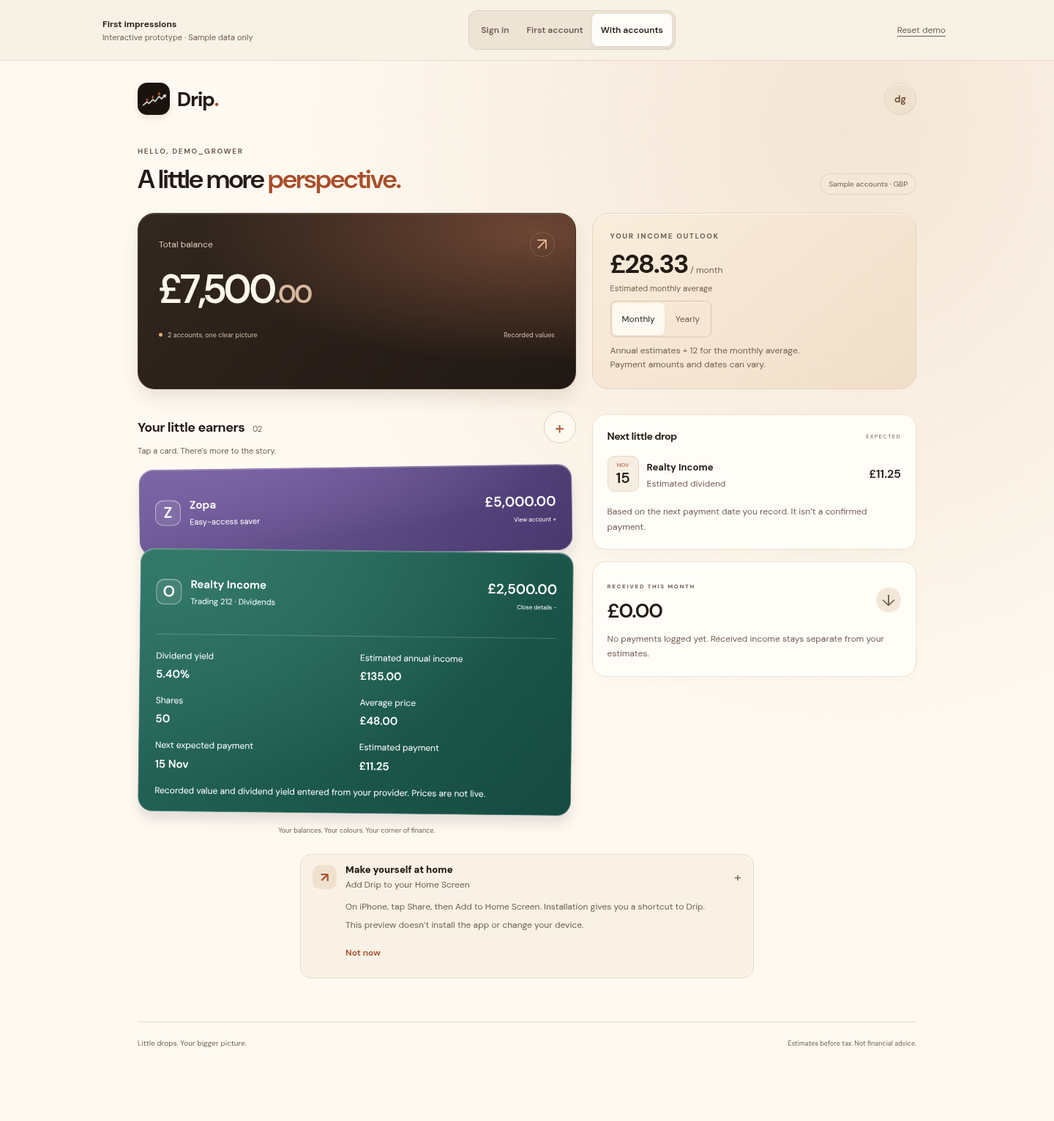
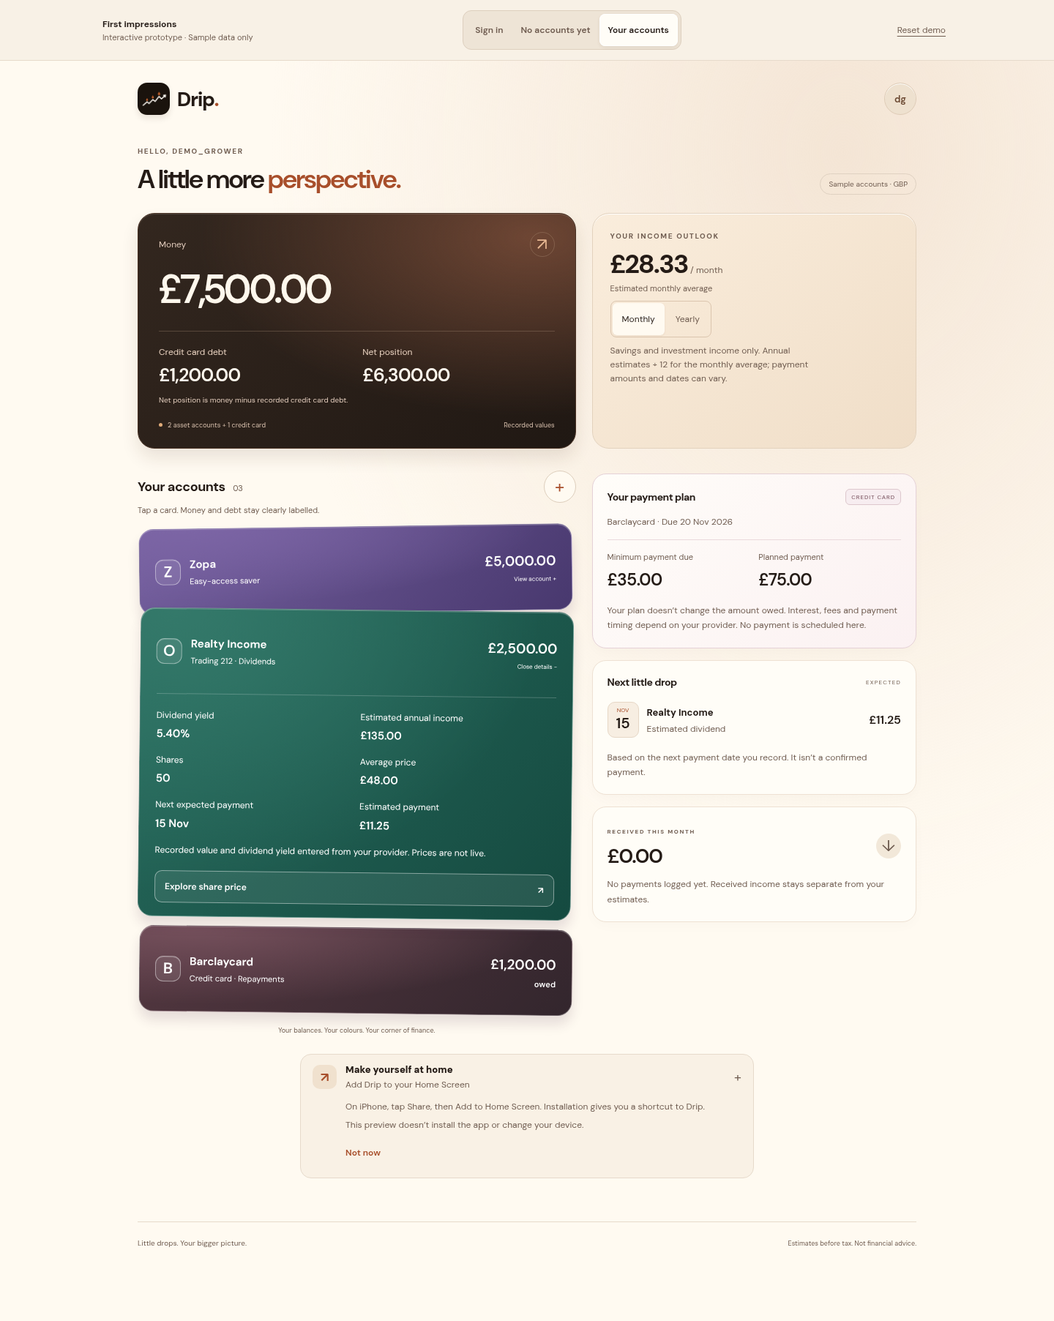
docs: explain prototype decisions and verify real stock charts

diff --git a/docs/screenshots/first-impression/stock-prices.md b/docs/screenshots/first-impression/stock-prices.md
@@ -1,0 +1,61 @@
+# Dividend share-price prototype
+
+The goal is to let someone explore a recorded dividend stock's price history before deciding whether to buy more shares. The prototype opens Realty Income's **NYSE:O** chart alongside a clearly separate sample holding. It does not trade, recommend a purchase or change recorded balances.
+
+At `/prototype/welcome`, choose **Your accounts → Realty Income → Explore share price**. Choose **1M**, **3M** or **1Y**, then **Load TradingView chart**. A third-party connection starts only after that action. **Hide chart** removes the frame; **Back to accounts** returns to the holding. **Open chart on TradingView** is available if an embedded chart cannot load.
+
+## Choice and reasons
+
+**Use TradingView's free embedded chart for this shared Preview.** It needs no API key and is offered for website embedding. Keep its branding/attribution and link intact. This is a display integration, not a raw-price API or an automatic portfolio-valuation feed.
+
+| Option | Free allowance / capability | What it means for Drip | Primary source |
+| --- | --- | --- | --- |
+| TradingView widget | Free hosted interactive chart; available data depends on market. | Suitable for a chart sample without managing an API key. NYSE widget data is listed as delayed Cboe One data; do not promise Trading212 execution prices or a consolidated real-time feed. | [Chart](https://www.tradingview.com/widget-docs/widgets/charts/advanced-chart/), [NYSE data level](https://www.tradingview.com/widget-docs/markets/north-america/), [data FAQ](https://www.tradingview.com/widget-docs/faq/data/) |
+| Massive Stocks Basic | $0; 5 calls/minute; 2 years of end-of-day US history. | A possible owner-only personal API experiment. The vendor explicitly requires Business once another person sees it, including private testers/staging. Free Basic does not cover this shared Preview. | [Plans](https://massive.com/stocks), [display rights](https://massive.com/knowledge-base/article/which-plan-do-i-need-to-show-massive-data-in-my-app) |
+| Twelve Data Basic | $0; 8 API credits/minute, 800/day. | The pricing card specifies internal non-display use. An API response alone does not establish permission for a user-facing chart. | [Pricing](https://twelvedata.com/pricing), [usage](https://support.twelvedata.com/en/articles/5332349-commercial-and-personal-usage) |
+| Alpha Vantage | 25 requests/day; real-time/15-minute US data is premium. | Useful for a small personal experiment, with private-use restrictions. A free shared Drip display licence was not established. | [Limits/key](https://www.alphavantage.co/support/), [terms](https://www.alphavantage.co/terms_of_service/) |
+
+These are the options verified for this decision, not an exhaustive claim about every free provider. Finnhub's current free historical-candle entitlement could not be confirmed from readable primary documentation. Frankfurter supplies currency exchange rates, not stock prices.
+
+## How the sample is architected
+
+- **Identity:** the instrument catalogue maps names to exchange-qualified symbols and quote currency. The sample uses Realty Income, NYSE:O, USD. Brookfield Infrastructure Partners is explicitly BIP rather than a different Brookfield listing. [Instrument/configuration boundary](../../../app/prototype/welcome/stock-chart.ts).
+- **Isolation:** a fixed cross-origin TradingView frame loads only on request. Remote provider code does not run in Drip's parent document. The frame gets a public symbol and chart settings; no gamertag, share count, average price, balance or recovery/session credential is serialized. TradingView necessarily receives the connection's IP and may observe the embedding context. [Provider privacy description](https://www.tradingview.com/widget-docs/faq/general/).
+- **Honest prices:** delay/source information remains visible. Frame navigation is not proof that price data loaded, is current or is available for a particular listing. Provider branding and availability messages remain intact.
+- **Separate records:** the sample's 50 shares, £2,500 recorded value, £48 average price, 5.4% recorded yield and £135 estimated annual income stay in GBP. The chart is USD. The UI does not compare those prices without FX, infer a GBP gain or overwrite saved values. [Stock detail UI](../../../app/prototype/welcome/StockPricePreview.tsx).
+- **Embedding contract:** the frame URL follows the output of TradingView's current official iframe loader. It is not a separately documented stable data API; recheck it when changing the provider integration. [Official integration flow](https://www.tradingview.com/widget-docs/tutorials/iframe/build-page/widget-integration/).
+
+A future custom API implementation should resolve the recorded instrument on the server, fetch permitted quote/history data through a provider adapter, validate and normalize it, cache/deduplicate requests, and return currency, market date, source and freshness. Rate-limit/entitlement failures should leave recorded holdings intact. A market estimate can then use **shares × price × dated FX**, clearly separate from recorded balance and received dividends. The widget's data must not be scraped or reused for those calculations.
+
+## Screenshots
+
+Captured from the running optimized Drip prototype at source `032e4f4450c9fbd98b22f780fcdaae8b99c6c784`, 6 November 2026. Mobile 390×844 and desktop 1440×1000; the pre-load/recorded states were also checked at 320px. The loaded chart contains actual provider data at capture time, with TradingView branding intact; the recorded holding figures are synthetic. These are historical screenshots, not current quotes.
+
+| State | Mobile | Desktop |
+| --- | --- | --- |
+| Before optional provider connection | [Detail](stock-detail-mobile.png) | [Detail](stock-detail-desktop.png) |
+| Actual delayed market chart | [Chart](stock-market-mobile.png) | [Chart and recorded holding](stock-market-desktop.png) |
+| Recorded GBP holding | [Figures](stock-recorded-mobile.png) | [Alongside chart](stock-market-desktop.png) |
+
+[Mobile chart after normal scrolling, including attribution](stock-market-mobile-scrolled.png). Screenshots were opened and visually inspected. No synthetic price line or intercepted frame is used in these loaded-chart captures.
+
+## Verification
+
+| Claim | Expected / observed | Evidence and environment |
+| --- | --- | --- |
+| Correct instrument and configuration | Known exchange-qualified listings resolve correctly; invalid IDs/ranges fail closed; 1Y maps to 12 months. Only public chart settings cross the fixed HTTPS provider boundary. Passed. | [Seven isolated units](../../../tests/stock-chart.test.ts), source `032e4f4` |
+| Consent and holding separation | No iframe before Load; selected range applies; Hide/Back/Close remove the frame and restore focus. GBP holdings and income remain unchanged. Frame load does not claim current prices. Passed. | [Two real React component interactions](../../../tests/stock-chart.integration.test.tsx); component-state prototype, no primary datastore |
+| Core app journey | Accounts → Realty Income → price view → optional chart → return preserves recorded money/income and mobile layout. Passed. | [One Chromium journey](../../../e2e/stock-chart.e2e.spec.ts), optimized local app. Its frame transport is explicitly a deterministic fixture, not proof of prices. New suite is 7/2/1, exactly 70/20/10. |
+| Actual external data renders inside Drip | Both desktop and mobile loaded the real NYSE:O one-year plot, correct company/Cboe One/delay label and branding. Seven canvases each; no page errors, failed requests or horizontal overflow. Passed at capture time. | Real optimized Drip UI, matching compiled build fingerprint, Chromium 156 in a disposable container, inherited managed proxy and trusted runtime CA with TLS verification enabled. [Desktop](stock-market-desktop.png), [mobile](stock-market-mobile.png), [scrolled attribution](stock-market-mobile-scrolled.png) |
+| Existing app regressions | 783 unique cases passed; existing thresholds preserved, audit 0. The three inherited historical old-build PWA checks remain conditional. | [Full executed report](regression-report.md) from source `032e4f4`; Git checks must also pass on the published evidence commit. |
+
+The first host-browser attempt failed certificate trust through the environment proxy. The isolated container used a fresh task-owned certificate store to trust the supplied runtime CA; no host trust store or TLS validation was weakened. The successful actual-data check supersedes that connectivity limitation.
+
+This verifies the Realty Income sample, not every catalogue symbol, independent price accuracy, execution prices, a hosted user login or a physical iPhone/PWA. Hosted deployment identity and current-head checks are recorded with the PR after Git Preview delivery. No raw-price API key, authenticated provider API or automatic valuation was configured.
+
+## Next steps
+
+1. Try the embedded Realty Income chart in Preview and compare its layout with your recorded holding. Confirm whether the 1M/3M/1Y controls and chart size provide enough context.
+2. If chart display is sufficient, keep this keyless option and apply the agreed UI to saved dividend accounts after feedback. Check each recorded exchange/listing rather than guessing a ticker from its company name.
+3. If Drip should automatically value holdings or draw a fully custom chart, first select an affordable API plan/agreement that permits Drip's actual audience. Then generate a key in that provider's dashboard and add it as a **server-only Preview** secret using the agreed destination. Never use `NEXT_PUBLIC_*`, commit a key or paste it into chat. No API key or paid subscription is needed for the current widget sample.
+4. For a genuinely owner-only Massive Basic experiment, the owner can [create a free account](https://massive.com/dashboard/signup) and obtain its dashboard key following the [official quickstart](https://massive.com/docs/rest/quickstart). That personal key would not authorize showing API-derived prices to other Drip testers; do not add it to the shared Preview under that assumption.

diff --git a/docs/screenshots/first-impression/README.md b/docs/screenshots/first-impression/README.md
@@ -2,28 +2,52 @@
 
 Open `/prototype/welcome` on a Preview or local deployment. The route returns 404 on a Production build and is excluded from search indexing. The current sign-in and Accounts implementation is separate from this design experiment.
 
-Use **Sign in**, **First account** and **With accounts** above the product canvas to compare the entry states. Try the demo entry, first-account chooser, account-card expansion, monthly/yearly estimate and optional Home Screen reminder. **Reset demo** restores the initial sample state.
+Use **Sign in**, **No accounts yet** and **Your accounts** above the product canvas to compare the entry states. The empty state simply means no financial accounts have been added. Try the sample chooser, card expansion, credit-card editor, monthly/yearly estimate and optional Home Screen reminder. **Reset demo** restores the initial sample state. See the [credit-card walkthrough](credit-cards.md).
 
-The sign-in fields are read-only samples. Interactions use component state: they do not authenticate, connect providers, change saved accounts or persist edits. Recorded values and estimates are labelled separately from received income. Sample prices and payment dates are illustrative.
+The sign-in fields are read-only samples. Account and credit-card edits use component state: they do not authenticate, connect financial accounts, change saved records or persist edits. Money, credit-card debt and net position are shown separately; plans and estimates stay distinct from received income. Recorded figures and payment dates are illustrative. The optional [share-price view](stock-prices.md) makes a separate TradingView connection only when requested.
 
 ## Screenshots
 
-Captured from running optimized builds, using DM Sans and synthetic data. Before: main `ba88e23996586090bb6f3527028d6c446ca8e335`. After: prototype source `d4748729aafe8114dc15be4706655d09b118da86`. The following evidence commit adds only these screenshots/documentation; application and test source match the tested prototype commit.
+Captured from running optimized builds, using DM Sans and synthetic recorded data. Before: main `ba88e23996586090bb6f3527028d6c446ca8e335`. After: prototype/test source `032e4f4450c9fbd98b22f780fcdaae8b99c6c784`. The evidence follow-up changes only screenshots/documentation; application and test source match that tested commit.
 
 | State | Before mobile | After mobile | Before desktop | After desktop |
 | --- | --- | --- | --- | --- |
 | Sign in | [Current](before-signin-mobile.png) | [Prototype](after-signin-mobile.png) | [Current](before-signin-desktop.png) | [Prototype](after-signin-desktop.png) |
-| First Accounts | [Current](before-empty-mobile.png) | [Prototype](after-empty-mobile.png) | [Current](before-empty-desktop.png) | [Prototype](after-empty-desktop.png) |
-| Example Accounts | [Current](before-accounts-mobile.png) | [Prototype](after-accounts-mobile.png) | [Current](before-accounts-desktop.png) | [Prototype](after-accounts-desktop.png) |
+| No accounts yet | [Current](before-empty-mobile.png) | [Prototype](after-empty-mobile.png) | [Current](before-empty-desktop.png) | [Prototype](after-empty-desktop.png) |
+| Your accounts | [Current](before-accounts-mobile.png) | [Prototype](after-accounts-mobile.png) | [Current](before-accounts-desktop.png) | [Prototype](after-accounts-desktop.png) |
 
 Additional states: expanded card [mobile](after-expanded-mobile.png)/[desktop](after-expanded-desktop.png), account chooser [mobile](after-chooser-mobile.png)/[desktop](after-chooser-desktop.png), and install details [mobile](after-install-mobile.png)/[desktop](after-install-desktop.png). Chooser captures show the viewport; other captures show the full page.
 
 Main comparisons use 390×844 mobile and 1440×1000 desktop. The prototype was also captured and checked at 320px with no horizontal overflow. The Accounts baseline uses an encrypted synthetic legacy fixture with recovery still pending; normal signup after saved recovery codes would usually hide that recovery task. These images do not establish successful hosted authentication or physical-phone behavior.
 
+## Decisions and reasons
+
+| Choice | Reason | Detail |
+| --- | --- | --- |
+| No accounts yet | Explains an empty list of financial accounts after signup. It is a comparison state, not another account type or signup step. | [Entry states](../../../app/prototype/welcome/WelcomePanels.tsx) |
+| Separate money, debt and net position | A credit-card balance is an amount owed. It should reduce net position without being mixed into savings or dividend income. | [Debt calculations](../../../app/prototype/welcome/credit-card.ts), [walkthrough](credit-cards.md) |
+| Statement minimum and planned payment | Capture what the issuer requests and what the user plans independently. Providers can use different minimum formulas. Neither field makes a payment. | [Editable statement](../../../app/prototype/welcome/CreditCardPreview.tsx) |
+| Estimated versus received income | A prediction is useful without claiming a payment has arrived. | [Accounts view](../../../app/prototype/welcome/AccountPreview.tsx) |
+| Optional Home Screen task | Installation is a useful next action, with details available when wanted. It does not guarantee data retention. | [Install state](../../../app/prototype/welcome/WelcomePanels.tsx) |
+| Optional market chart | A free display widget provides price-history context while recorded holdings and income stay independent. An automatic valuation needs a different data contract. | [API comparison and stock view](stock-prices.md) |
+
 ## Verification
 
-The complete regression command passed 753 unique cases: 159 unit, 500 component/storage integration, 33 real Postgres/HTTP integration and 61 browser cases. Line coverage 97.47%; existing thresholds remain. Three historical old-build PWA journeys remain conditional and are not counted as passes. Clean install, audit, types, dependency boundaries and optimized build passed.
+The combined prototype passed the complete `npm run test:regression` on source `032e4f4`: **783 unique cases** (180 unit, 506 component/storage integration, 33 real Postgres/HTTP and 64 browser). Coverage: **97.54% lines, 92.34% branches, 94.01% functions, 94.55% statements**. Types, dependency boundaries, optimized build and audit passed; existing thresholds remain. See the [executed report](regression-report.md) and separate [real-provider verification](stock-prices.md#verification).
 
-The new cases cover the Production route boundary, noindex metadata, sample-state interactions, separated recovery, estimates versus received payments, native Escape/focus restoration, touch targets, responsive overflow and the absence of account/API/storage writes. They extend the existing design-prototype feature; UI wiring is classified as integration rather than invented business-unit coverage.
+| Behaviour | Expected and observed | Where / evidence |
+| --- | --- | --- |
+| Entry and empty-list navigation | Sign in, empty list and example accounts stay separate; sample choices open the matching card. Passed. | Local running app and [component interactions](../../../tests/welcome-prototype.integration.test.tsx), [browser journey](../../../e2e/welcome-prototype.e2e.spec.ts) |
+| Debt and income arithmetic | £7,500 money minus £1,200 owed gives £6,300 net. Editing only the plan leaves debt, money and income unchanged. Passed, including zero and negative-net cases. | [14 isolated units](../../../tests/credit-prototype.test.ts), [four component integrations](../../../tests/credit-prototype.integration.test.tsx) |
+| Credit editor | Fields save/cancel/reset correctly; Save stays visible, due-date field is reachable, Escape returns focus. Passed. Native date-picker dismissal is checked separately from editor dismissal. | Optimized Chromium at mobile/desktop sizes; [two browser cases](../../../e2e/credit-prototype.e2e.spec.ts), [editor evidence](credit-cards.md#screenshots) |
+| Preview boundary and data isolation | Production route returns 404 and robots metadata excludes indexing. Sample edits do not call account APIs or persist records. Passed. | [Route tests](../../../tests/holdings-prototype-route.test.tsx), component and browser checks above |
+| Layout | No horizontal overflow at 320, 390 and 1440px; important captures visually inspected. Passed. | Screenshots above and [credit-card states](credit-cards.md#screenshots) |
 
-Use the prototype to judge warmth, readability, information priority and the amount of card depth. A future application redesign can follow the selected treatment after feedback.
+Three inherited historical old-build PWA journeys remain conditional, not passes. This prototype evidence does not verify a physical iPhone, hosted account login or real customer balances. Full regression reports distinguish real Postgres/HTTP tests from sample UI fixtures.
+
+## Next steps
+
+1. Open `/prototype/welcome` in Preview. Compare **No accounts yet** with **Your accounts**; edit Barclaycard's minimum and plan, then use **Reset demo**.
+2. Try the [stock-price sample](stock-prices.md) from the Realty Income card. The recorded holding and external chart have separate sources and currencies.
+3. Give feedback on information priority, card depth and payment-plan wording. The screenshot comparison section remains the visual reference.
+4. Apply the agreed design to saved accounts in a later implementation. This prototype does not authorize a Production rollout or change persisted account formats.

diff --git a/docs/screenshots/first-impression/credit-cards.md b/docs/screenshots/first-impression/credit-cards.md
@@ -1,0 +1,29 @@
+# Credit-card prototype
+
+**No accounts yet** means the empty financial-account list after signup. It is a prototype state to compare with **Your accounts**, rather than a special account product or an extra signup step.
+
+At `/prototype/welcome`, select **Your accounts**, open **Barclaycard**, then choose **Edit credit card**. The example captures an amount owed, APR, statement minimum, optional planned payment and statement due date. Minimums are entered from the provider’s statement for that due cycle; different providers can calculate them differently.
+
+The sample reconciles £7,500 of savings/investments, £1,200 owed and a £6,300 net position. Its asset income remains £340 estimated annually, or £28.33 average monthly. Changing a plan does not reduce a recorded balance, record received income or schedule a payment. Only changing the recorded amount owed changes the debt/net figures.
+
+The fields accept a 0% APR and an unset plan. Amount mismatches remain visible with review notes; no values are silently clamped. APR alone is not used to promise exact interest charges or a payoff date. Changes use memory-only sample state and Reset demo restores the starting figures.
+
+## Screenshots
+
+Credit/editor captures use the running optimized prototype at source `98b208e6a6673f83449ab01c1ec039aaf4eeff6f` (app identical to `9e5a024`); overview links use the later combined prototype capture at `032e4f4`. Images use synthetic data and mobile 390×844/desktop 1440×1000 viewports. Narrow 320px states were also checked. Native date fields follow the browser’s formatting; the recorded sample date is 20 November 2026.
+
+| State | Mobile | Desktop |
+| --- | --- | --- |
+| Money, debt and net overview | [Overview](after-accounts-mobile.png) | [Overview](after-accounts-desktop.png) |
+| Expanded credit card | [Card](credit-mobile.png) | [Card](credit-desktop.png) |
+| Editable statement and plan | [Editor](editor-mobile.png) | [Editor](editor-desktop.png) |
+
+[Scrolled mobile editor](editor-scrolled-mobile.png) · [Below-minimum plan note](plan-note-mobile.png)
+
+The Save/Cancel row stays visible while fields scroll. Keyboard checks preserve native Escape/focus behavior and verify that the due-date field can be reached without being covered by the sticky actions. Date editing is exercised separately from editor dismissal, since a native mobile picker handles its own Escape.
+
+## Verification scope
+
+The new feature has 14 isolated unit, four component integration and two browser cases, exactly 70/20/10. These cover financial separation, pennies, zero/optional values, statement edits, validation, review notes, reset, keyboard behavior and sample-data isolation. They extend the existing app-wide gates; the legacy app test distribution is not relabelled.
+
+The route remains Preview/development only and noindex. This prototype does not change saved-account formats, authentication, cloud records or Production behavior. Applying the chosen design to saved accounts is a later step after feedback.

diff --git a/docs/screenshots/first-impression/regression-report.md b/docs/screenshots/first-impression/regression-report.md
@@ -1,0 +1,46 @@
+Source: `032e4f4450c9fbd98b22f780fcdaae8b99c6c784`, complete local `npm run test:regression`, 6 November 2026. Optimized app, real disposable Postgres/HTTP and Chromium. This report does not turn fixtures into hosted-provider evidence; see [stock verification](stock-prices.md#verification).
+
+# Drip regression report
+
+Counts are executed test cases. Conditional/skipped journeys are unverified, not passes. Legacy distribution is reported honestly; new feature pyramids enforce the 70/20/10 target (±5 percentage points).
+
+| Layer | Passed | Failed | Conditional |
+| --- | ---: | ---: | ---: |
+| unit | 180 | 0 | 0 |
+| integration | 506 | 0 | 0 |
+| postgres | 33 | 0 | 0 |
+| browser | 64 | 0 | 3 |
+
+| Feature | Result | Passed | Conditional |
+| --- | --- | ---: | ---: |
+| Gamertag signup, password login and session policies | PASS | 111 | 0 |
+| Original six recovery codes, reset and file recovery | PASS | 90 | 0 |
+| Encrypted local storage, account switching and locked-state safety | PASS | 44 | 0 |
+| Encrypted cloud sync, conflicts, version compatibility and restored data | PASS | 123 | 0 |
+| Four-device admission, targeted revocation and signout races | PASS | 70 | 0 |
+| Passkey registration/unlock and recovery alternatives | PASS | 25 | 0 |
+| Account editing, providers, categories and colours | PASS | 30 | 0 |
+| Balances, topups, withdrawals, rate changes and income arithmetic | PARTIAL | 52 | 1 |
+| Dividend portfolio and received-income totals | PASS | 25 | 0 |
+| Shares, acquisition cost, valuation and yield | PASS | 12 | 0 |
+| Daily FX estimates and bounded upstream API failures | PASS | 16 | 0 |
+| Trends, forecasts and deposit assumptions | PASS | 29 | 0 |
+| Expected payments, recurrence and reminders | PASS | 40 | 0 |
+| Phone-reminder enrolment, scheduling, limits and dispatch | PASS | 56 | 0 |
+| Install task, offline shell, safe worker updates and data retention | PARTIAL | 35 | 2 |
+| Design prototypes and Preview-only routes | PASS | 56 | 0 |
+| Deployment configuration and database schema compatibility | PARTIAL | 40 | 1 |
+| App navigation, identity and screen orchestration | PASS | 45 | 0 |
+| Regression catalog, change evidence and test-control guards | PASS | 23 | 0 |
+| Credit-card debt prototype and statement repayment planning | PASS | 20 | 0 |
+| Optional dividend price-history chart and recorded holding separation | PASS | 10 | 0 |
+
+## Conditional journeys
+
+- e2e/income-update.spec.ts: actual main worker3 upgrades to worker4 on a stable origin without changing encrypted accounts
+- e2e/pwa-update.spec.ts: saved bookmark updates from the old worker, refreshes imported build identity, and retains encrypted accounts offline
+- e2e/signin-update.spec.ts: a saved password and encrypted records survive an old-to-new build update while signed out
+
+## Evidence errors
+
+None.
